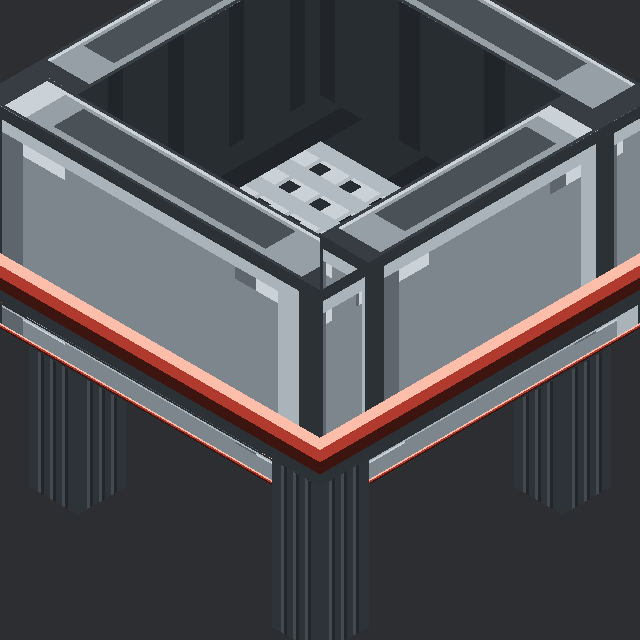
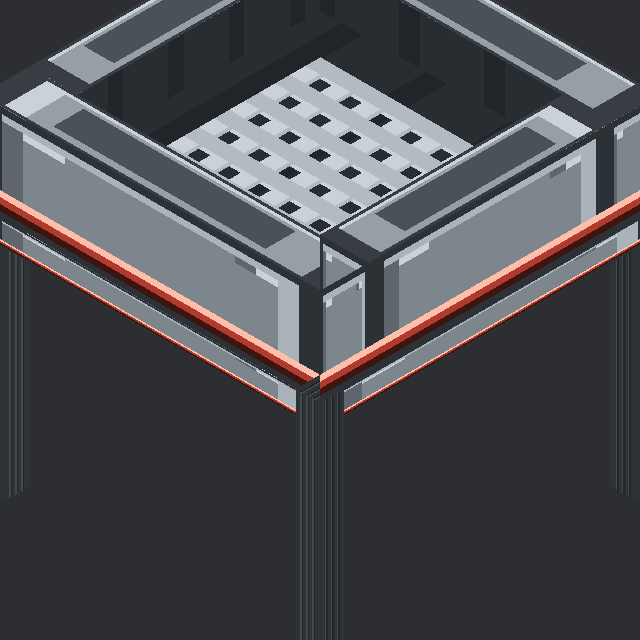
fix(m10): thin 4px sieve tray; per-type upgrade ghosts
- tray returns to the thin reference silhouette: 1x1 legs to y=10, bottom 9..10,
  4px walls 10..14, mesh at 10.2; still inset 1px against coplanar faces
- slot 2 ghost = speed upgrade, slot 3 ghost = fortune upgrade; hints drop 专用

diff --git a/scripts/generate_machine_assets.py b/scripts/generate_machine_assets.py
@@ -312,29 +312,29 @@ def sieve_model(*, fuel: bool) -> dict:
         return out
 
     side_uv = [0, 0, 16, 16]
-    rim_uv = [0, 0, 16, 4]
+    rim_uv = [0, 0, 16, 6]
     elements = []
-    # four 2x2 legs, inset by 1 px so adjacent machines never share a face plane
-    for x, z in ((2, 2), (12, 2), (2, 12), (12, 12)):
+    # thin 1x1 legs (0..10), inset 1 px so adjacent machines never share a plane
+    for x, z in ((1, 1), (14, 1), (1, 14), (14, 14)):
         elements.append({
-            "from": [x, 0, z], "to": [x + 2, 6, z + 2],
+            "from": [x, 0, z], "to": [x + 1, 10, z + 1],
             "faces": {f: face("#leg") for f in ("down", "up", "north", "south", "west", "east")},
         })
-    # tray bottom 6..7
+    # thin tray bottom 9..10
     elements.append({
-        "from": [1, 6, 1], "to": [15, 7, 15],
+        "from": [1, 9, 1], "to": [15, 10, 15],
         "faces": {
             "down": face("#side"), "up": face("#inner"),
             "north": face("#side"), "south": face("#side"),
             "west": face("#side"), "east": face("#side"),
         },
     })
-    # solid tray walls 7..14 (2 px thick), mesh sits at the bottom of the tray
+    # thin 4 px tray walls 10..14, mesh at the tray bottom
     walls = (
-        ("north", [1, 7, 1, 15, 14, 3]),
-        ("south", [1, 7, 13, 15, 14, 15]),
-        ("west", [1, 7, 3, 3, 14, 13]),
-        ("east", [13, 7, 3, 15, 14, 13]),
+        ("north", [1, 10, 1, 15, 14, 3]),
+        ("south", [1, 10, 13, 15, 14, 15]),
+        ("west", [1, 10, 3, 3, 14, 13]),
+        ("east", [13, 10, 3, 15, 14, 13]),
     )
     for outer, box in walls:
         faces = {f: face("#side") for f in ("down", "up", "north", "south", "west", "east")}
@@ -344,7 +344,7 @@ def sieve_model(*, fuel: bool) -> dict:
         faces[inner] = face("#inner")
         elements.append({"from": box[:3], "to": box[3:], "faces": faces})
     elements.append({
-        "from": [3, 7.2, 3], "to": [13, 7.35, 13],
+        "from": [3, 10.2, 3], "to": [13, 10.35, 13],
         "faces": {f: face("#mesh") for f in ("down", "up", "north", "south", "west", "east")},
     })
     return {"parent": "minecraft:block/block", "render_type": "minecraft:cutout",

diff --git a/src/main/java/com/kaifengcrt/exnihilosatellitium/common/machine/menu/AbstractMachineMenu.java b/src/main/java/com/kaifengcrt/exnihilosatellitium/common/machine/menu/AbstractMachineMenu.java
@@ -142,10 +142,11 @@ public abstract class AbstractMachineMenu extends AbstractContainerMenu {
                     ? Items.SAND : Items.COBBLESTONE);
         }
         if (this.electric) {
-            // one neutral ghost on the speed and fortune slots; slots 4/5 stay empty
-            if (index == MachineBlockEntity.UPGRADE_SLOT_START
-                    || index == MachineBlockEntity.UPGRADE_SLOT_START + 1) {
+            if (index == MachineBlockEntity.UPGRADE_SLOT_START) {
                 return new ItemStack(ModItems.SPEED_UPGRADE_1.get());
+            }
+            if (index == MachineBlockEntity.UPGRADE_SLOT_START + 1) {
+                return new ItemStack(ModItems.FORTUNE_UPGRADE_1.get());
             }
             return ItemStack.EMPTY;
         }
